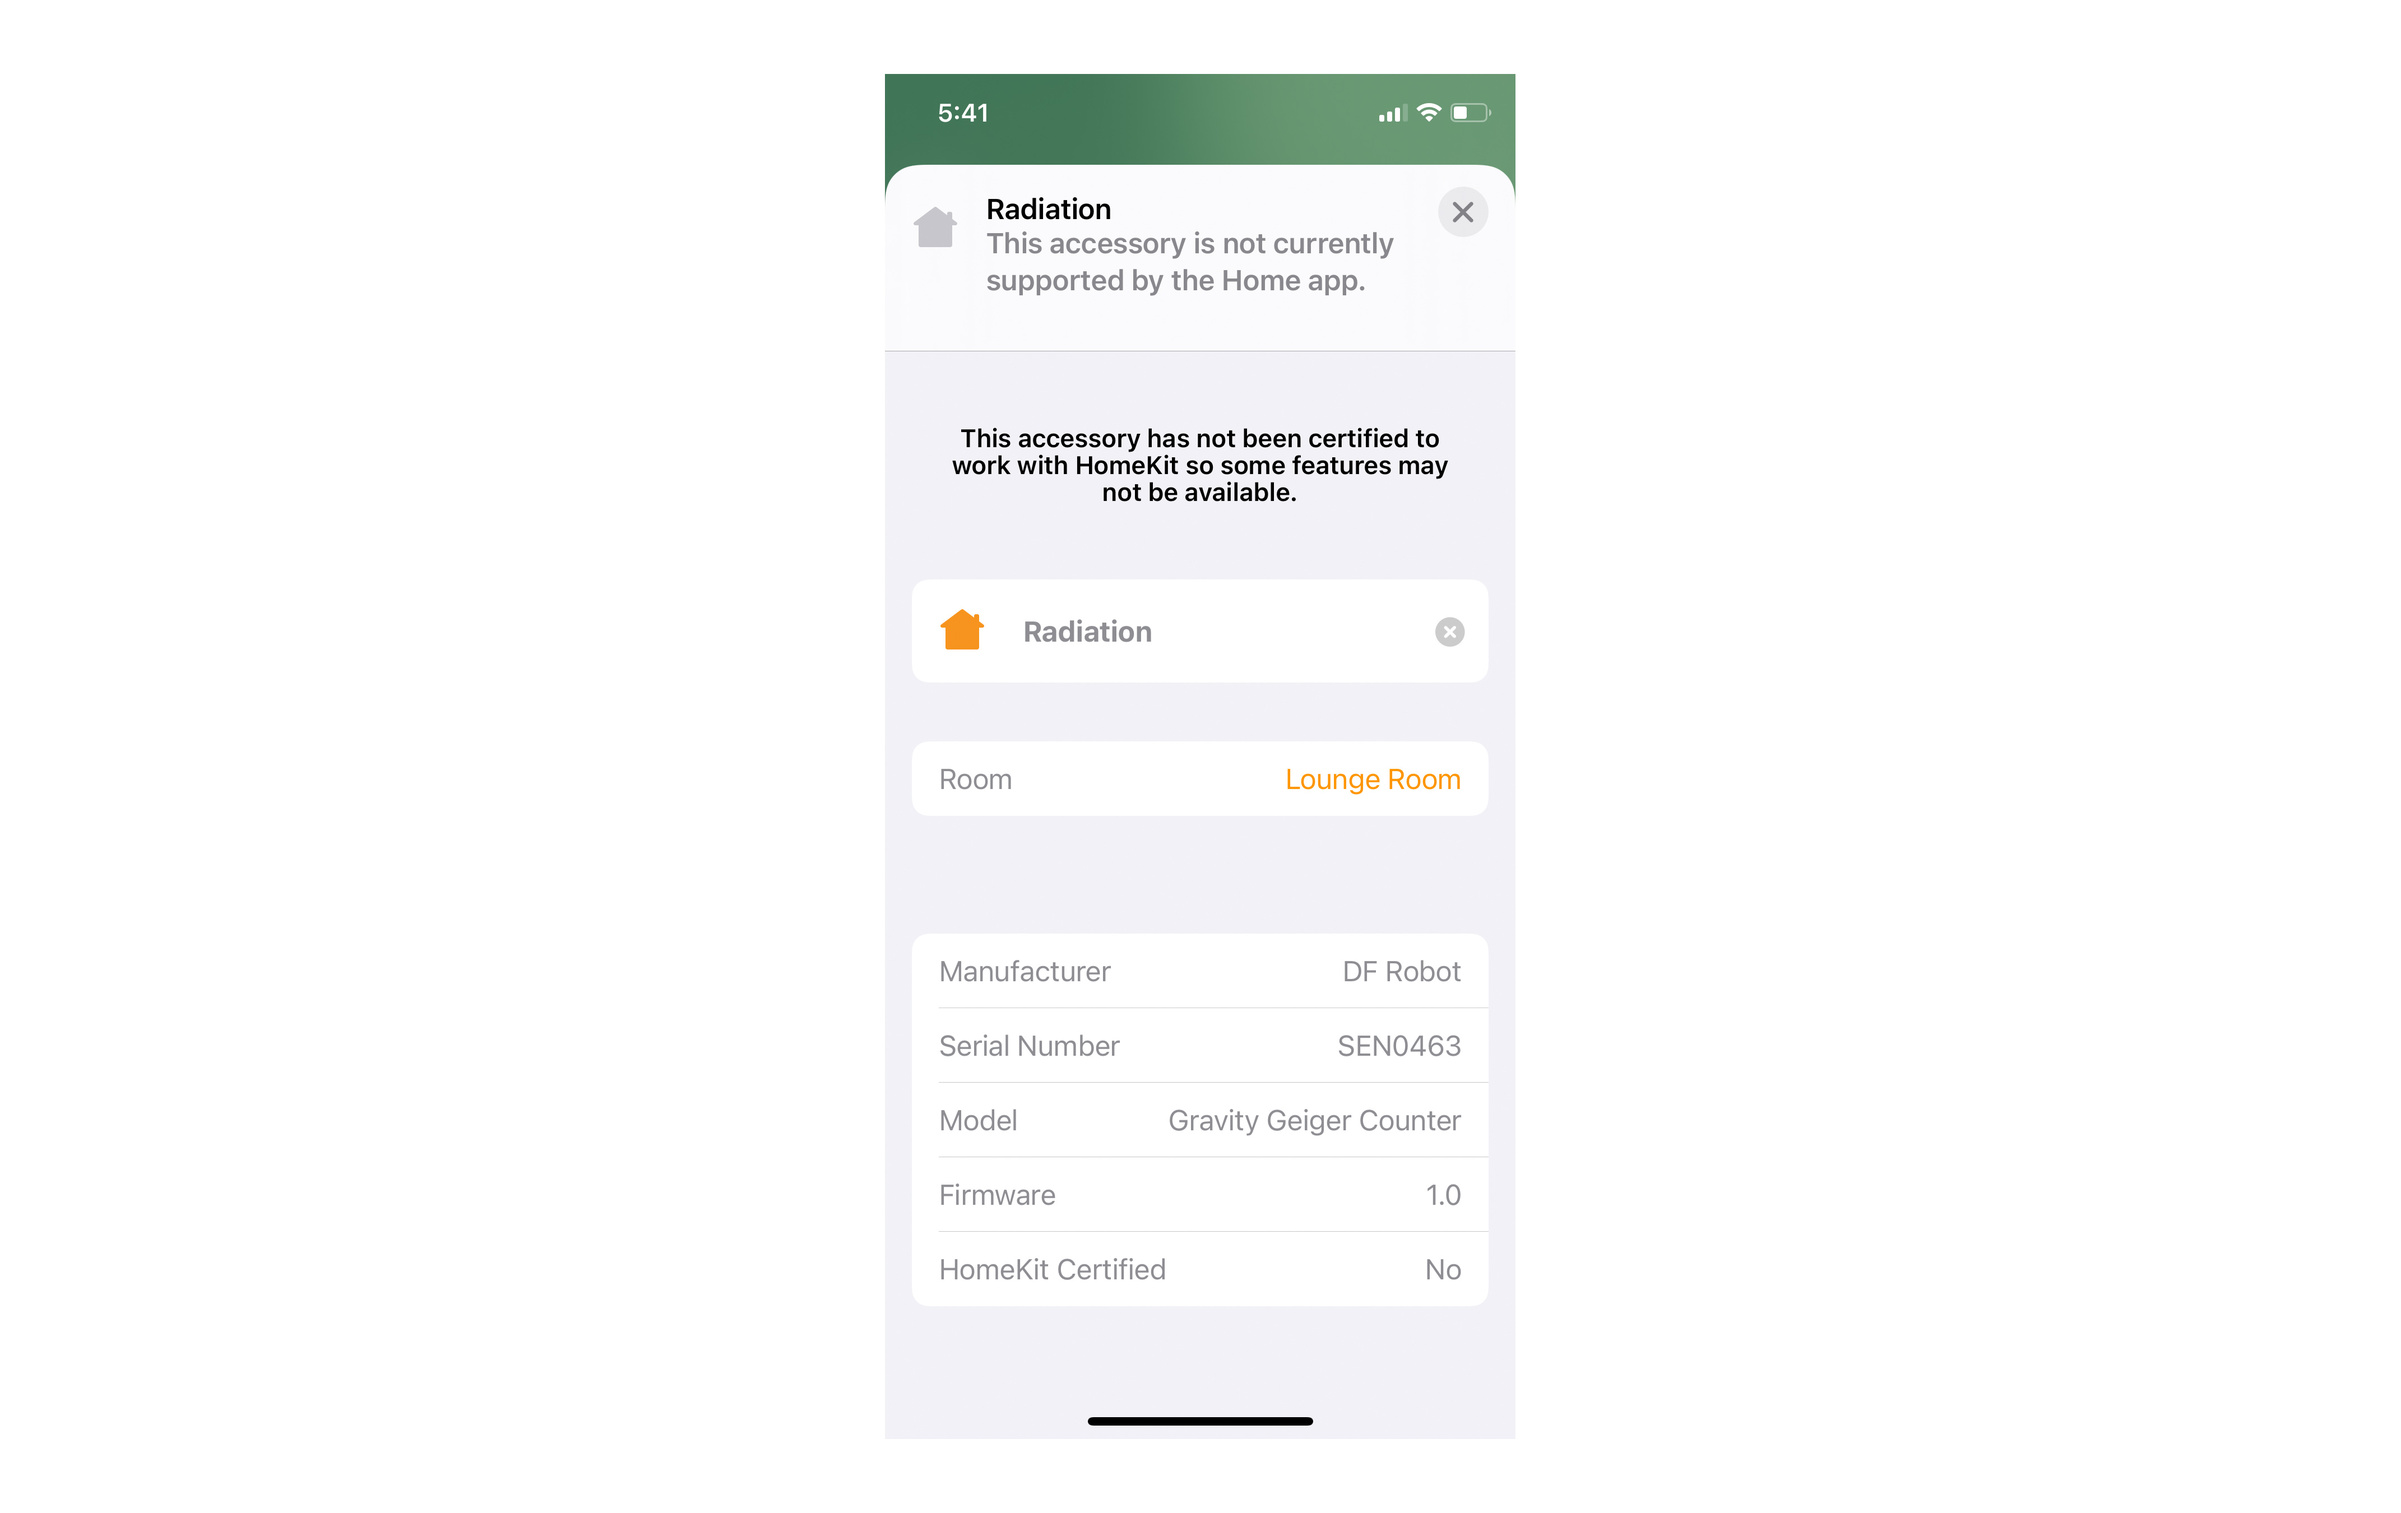
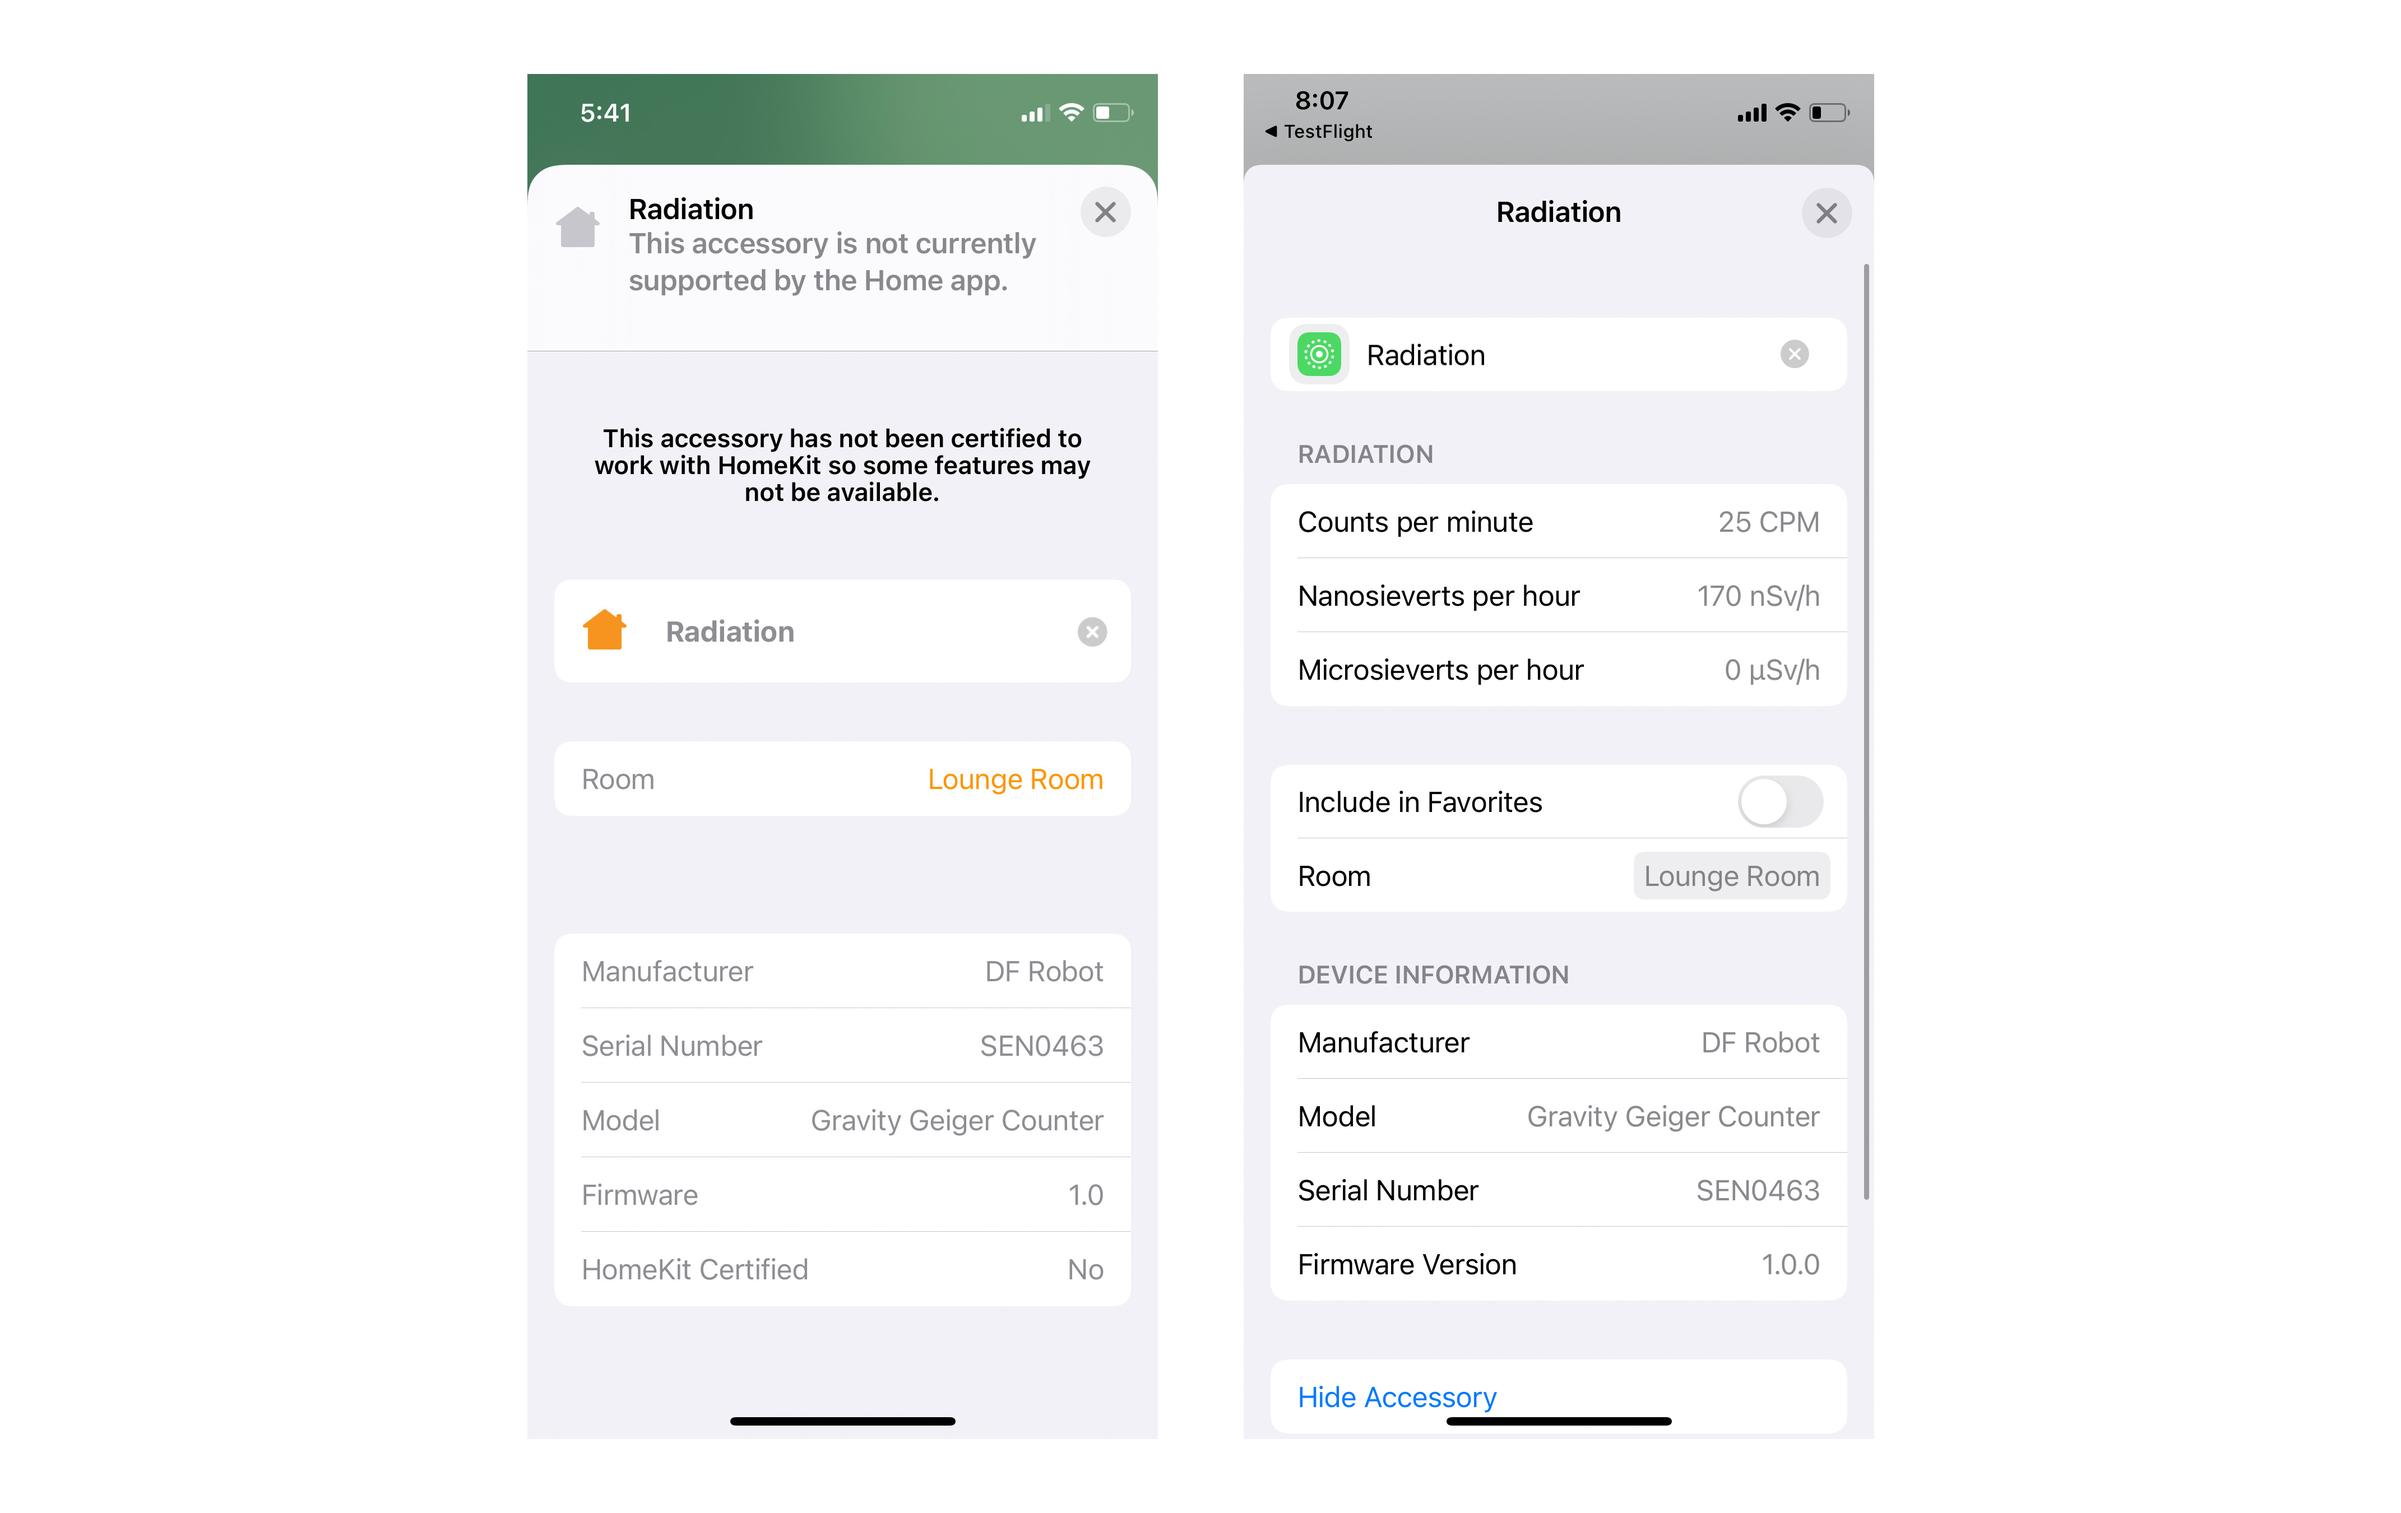
#2 Add note about only being supported by Home+ and update screenshot

diff --git a/README.md b/README.md
@@ -4,6 +4,8 @@ An [Apple HomeKit](https://developer.apple.com/homekit/) accessory for the [DF R
 
 ![The accessory added to iOS](_images/homekit-geiger-counter.jpg)
 
+**Note**: this app is currently only supported in [Home+](https://apps.apple.com/us/app/home-5/id995994352) and not yet in Apple Home. Please up-vote [this forum post](https://developer.apple.com/forums/thread/702676) if you'd like Apple to add support.
+
 ## Dependencies
 
 * [**Go**](http://golang.org/doc/install) - this accessory is written in Go
